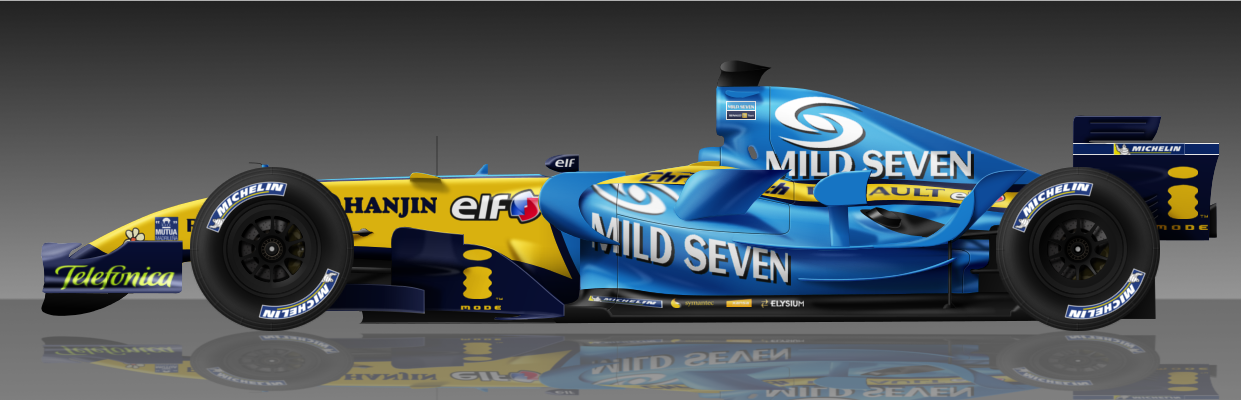
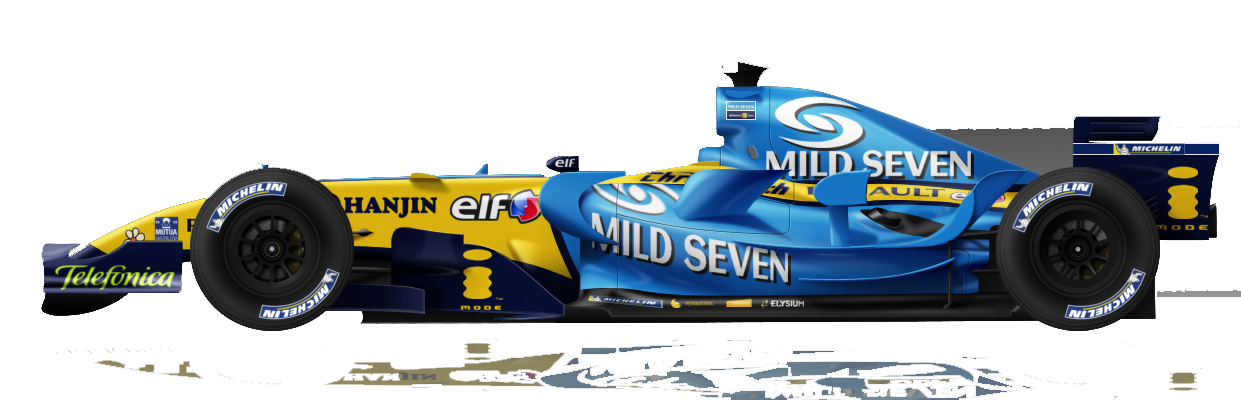
better view on images and backgrounds - fix tests

diff --git a/src/presentationalComponents/Home.module.sass b/src/presentationalComponents/Home.module.sass
@@ -12,92 +12,3 @@
 
 .inView
   max-width: 100%
-
-.car
-  height: 100vmin
-  transition: 100ms all
-  filter: blur(3px)
-
-.driver
-  position: absolute
-  top: 20%
-  right: 15%
-
-.driverImage
-  height: 40vmin
-
-.champion
-  font-family: Kanit-ExtraBold
-  font-size: 40px
-  background-color: #222222
-  margin-top: -10px
-  padding: 10px
-
-.pageShades
-  background: rgba(0,0,0,0.3)
-  background: linear-gradient(90deg, rgba(0,0,0,1) 0%, rgba(0,0,0,0.3) 30%, rgba(0,0,0,0.3) 70%, rgba(0,0,0,1) 100%), linear-gradient(0deg, rgba(0,0,0,1) 0%, rgba(0,0,0,0.3) 30%, rgba(0,0,0,0.3) 70%, rgba(0,0,0,1) 100%)
-  width: 100%
-  height: 100%
-  position: absolute
-  top: 0
-  left: 0
-
-.pageShades2
-  background: rgba(0,0,0,0.2)
-  // background: linear-gradient(90deg, rgba(0,0,0,1) 0%, rgba(0,0,0,0.1) 30%, rgba(0,0,0,0.1) 70%, rgba(0,0,0,1) 100%), linear-gradient(0deg, rgba(0,0,0,1) 0%, rgba(0,0,0,0.1) 30%, rgba(0,0,0,0.1) 70%, rgba(0,0,0,1) 100%)
-  width: 100%
-  height: 100%
-  position: absolute
-  top: 0
-  left: 0
-
-
-.info
-  position: absolute
-  top: 38%
-  left: 15%
-  text-align: left
-  color: #CCC
-  text-transform: uppercase
-
-.season
-  font-family: Kanit-ExtraBold
-  font-size: 100px
-  line-height: 80px
-
-.title
-  font-family: Kanit-ExtraBold
-  font-size: 44px
-
-.smallTitle
-  font-family: Kanit-ExtraBold
-  font-size: 26px
-  margin-top: -20px
-
-.results
-  position: absolute
-  bottom: 15%
-  width: 100%
-  display: flex
-  flex-flow: row wrap
-  max-width: 1200px
-  margin: auto
-  justify-content: space-around
-
-.box
-  font-family: Kanit-ExtraBold
-  width: 260px
-  height: 20px
-  line-height: 20px
-  background-color: #222
-  padding: 20px
-  vertical-align: top
-
-.boxTitle
-  display: inline-block
-  float: left
-
-.boxValue
-  display: inline-block
-  float: right
-  color: #ff2000

diff --git a/src/assets/images/cars/index.ts b/src/assets/images/cars/index.ts
@@ -4,11 +4,11 @@ import carImage2007 from "./2007.jpg";
 import carImage2008 from "./2008.jpg";
 import carImage2009 from "./2009.jpg";
 import carImage2010 from "./2010.jpg";
-import carImage2011 from "./2011.jpg";
-import carImage2012 from "./2012.jpg";
-import carImage2013 from "./2013.jpg";
-import carImage2014 from "./2014.jpg";
-import carImage2015 from "./2015.jpg";
+import carImage2011 from "./2011.png";
+import carImage2012 from "./2012.png";
+import carImage2013 from "./2013.png";
+import carImage2014 from "./2014.png";
+import carImage2015 from "./2015.png";
 
 export default {
   2005: carImage2005,

diff --git a/src/presentationalComponents/Home/Season.tsx b/src/presentationalComponents/Home/Season.tsx
@@ -22,7 +22,7 @@ class Season extends Component<IProps, never> {
 
     return (
       <div className={css.root}>
-        <Background season={season} />
+        <Background className={css.background} season={season} />
         <Logo className={css.logo} />
         <Driver driverId={driverId} driver={driver} className={css.driver} />
         <Info

diff --git a/public/index.html b/public/index.html
@@ -19,7 +19,7 @@
       work correctly both with client-side routing and a non-root public URL.
       Learn how to configure a non-root public URL by running `npm run build`.
     -->
-    <title>React App</title>
+    <title>F1 World Championship Driver Results</title>
   </head>
   <body>
     <noscript>

diff --git a/src/presentationalComponents/shared/components/Background.module.sass b/src/presentationalComponents/shared/components/Background.module.sass
@@ -1,5 +1,5 @@
 .car
-  height: 100vmin
+  width: 100vmax
   transition: 100ms all
   filter: blur(3px)
 

diff --git a/src/presentationalComponents/SeasonDetails.module.sass b/src/presentationalComponents/SeasonDetails.module.sass
@@ -8,6 +8,7 @@
   position: fixed
   top: 0
   left: 0
+  right: 0
 
 .logo
   position: absolute

diff --git a/README.md b/README.md
@@ -1,44 +1,59 @@
-This project was bootstrapped with [Create React App](https://github.com/facebook/create-react-app).
+# F1 World Championship Driver Results
+
+We will use http://ergast.com/mrd/ to create a single page application that presents a list that shows the F1 world champions starting from 2005 until 2015. Clicking on an item shows the list of the winners for every race for the selected year. We also highlight the row when the winner has been the world champion in the same season.
+
+## Project Specs
+
+### Language
+
+Typescript used as main language.
+
+------
+
+### Tests
+
+Jest + Enzyme (+ react-test-renderer for snapshots) is used.
+
+------
+
+### Component Structure
+
+React components are beside their SASS css modules and their test files. like:
+
+- Component.tsx
+- Component.module.sass
+- Component.test.sass
+
+and \_\_snapshots\_\_ folder is automatically created (by test framework) in each folder.
+
+------
+
+### Directory Structure
+
+To separate concerns of "UI representation" and "logic" components and for the sake of reusability, there are two folders:
+
+- containers: to store logic components
+- presentationalComponents: to keep presentational components
+
+Inside "presentationalComponents" something like [Fractal Structure](https://hackernoon.com/fractal-a-react-app-structure-for-infinite-scale-4dab943092af) is used to maintain files in scale.
+
+We can decide how to structure "containers" folder later when we had more components.
+
+In case of app growth, we can use namespaces on top of these folders, each namespace can have different "containers" and "presentationalComponents" but namespaces should not have dependencies to each other.
+
+Also API folder is very simple right now, later, with more API's we can decide best way to organize it.
+
+------
 
 ## Available Scripts
 
-In the project directory, you can run:
+This project was bootstrapped with [Create React App](https://github.com/facebook/create-react-app).
 
 ### `npm start`
 
 Runs the app in the development mode.<br>
 Open [http://localhost:3000](http://localhost:3000) to view it in the browser.
 
-The page will reload if you make edits.<br>
-You will also see any lint errors in the console.
-
 ### `npm test`
 
 Launches the test runner in the interactive watch mode.<br>
-See the section about [running tests](https://facebook.github.io/create-react-app/docs/running-tests) for more information.
-
-### `npm run build`
-
-Builds the app for production to the `build` folder.<br>
-It correctly bundles React in production mode and optimizes the build for the best performance.
-
-The build is minified and the filenames include the hashes.<br>
-Your app is ready to be deployed!
-
-See the section about [deployment](https://facebook.github.io/create-react-app/docs/deployment) for more information.
-
-### `npm run eject`
-
-**Note: this is a one-way operation. Once you `eject`, you can’t go back!**
-
-If you aren’t satisfied with the build tool and configuration choices, you can `eject` at any time. This command will remove the single build dependency from your project.
-
-Instead, it will copy all the configuration files and the transitive dependencies (Webpack, Babel, ESLint, etc) right into your project so you have full control over them. All of the commands except `eject` will still work, but they will point to the copied scripts so you can tweak them. At this point you’re on your own.
-
-You don’t have to ever use `eject`. The curated feature set is suitable for small and middle deployments, and you shouldn’t feel obligated to use this feature. However we understand that this tool wouldn’t be useful if you couldn’t customize it when you are ready for it.
-
-## Learn More
-
-You can learn more in the [Create React App documentation](https://facebook.github.io/create-react-app/docs/getting-started).
-
-To learn React, check out the [React documentation](https://reactjs.org/).
